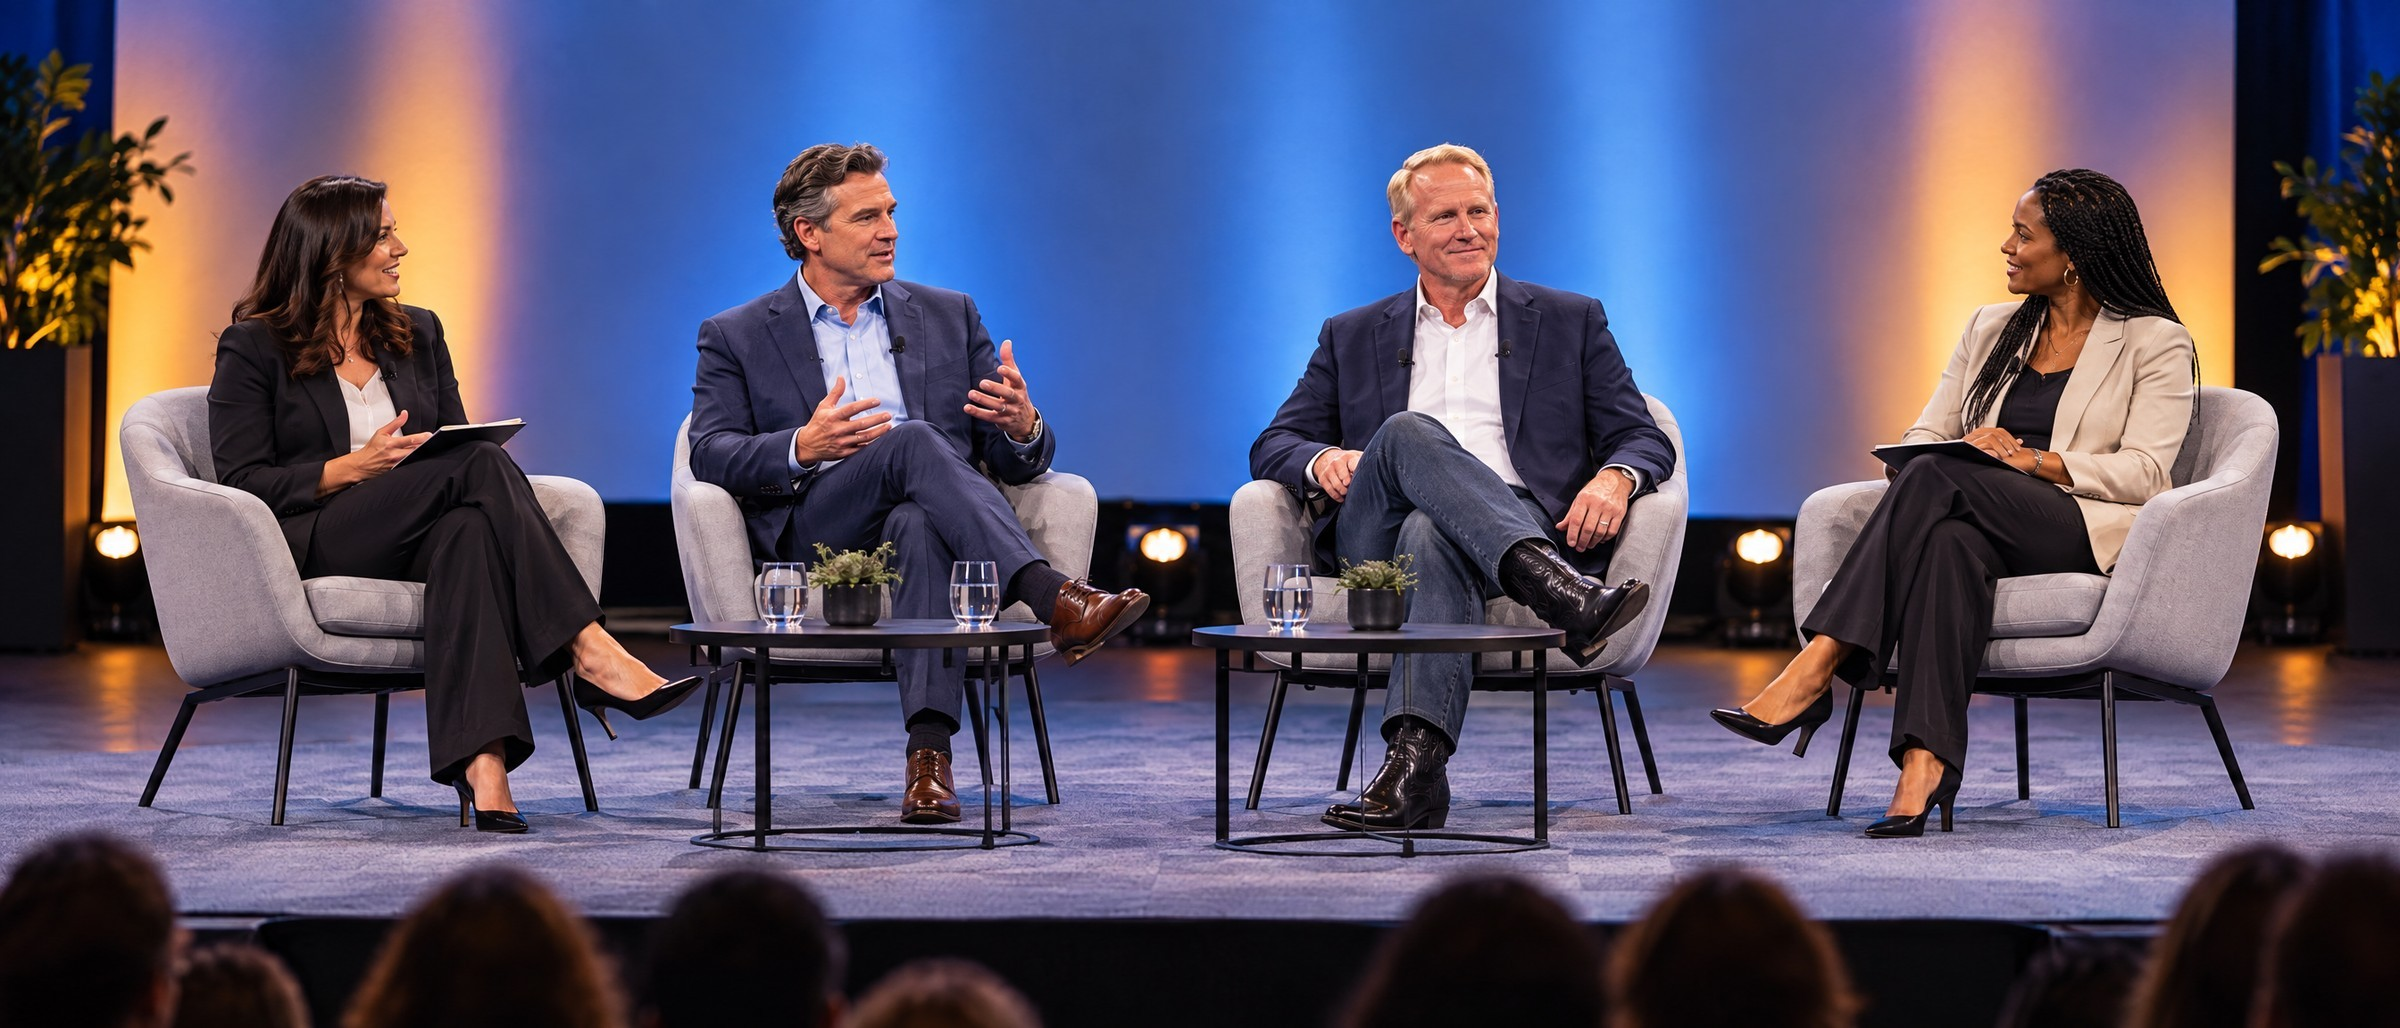
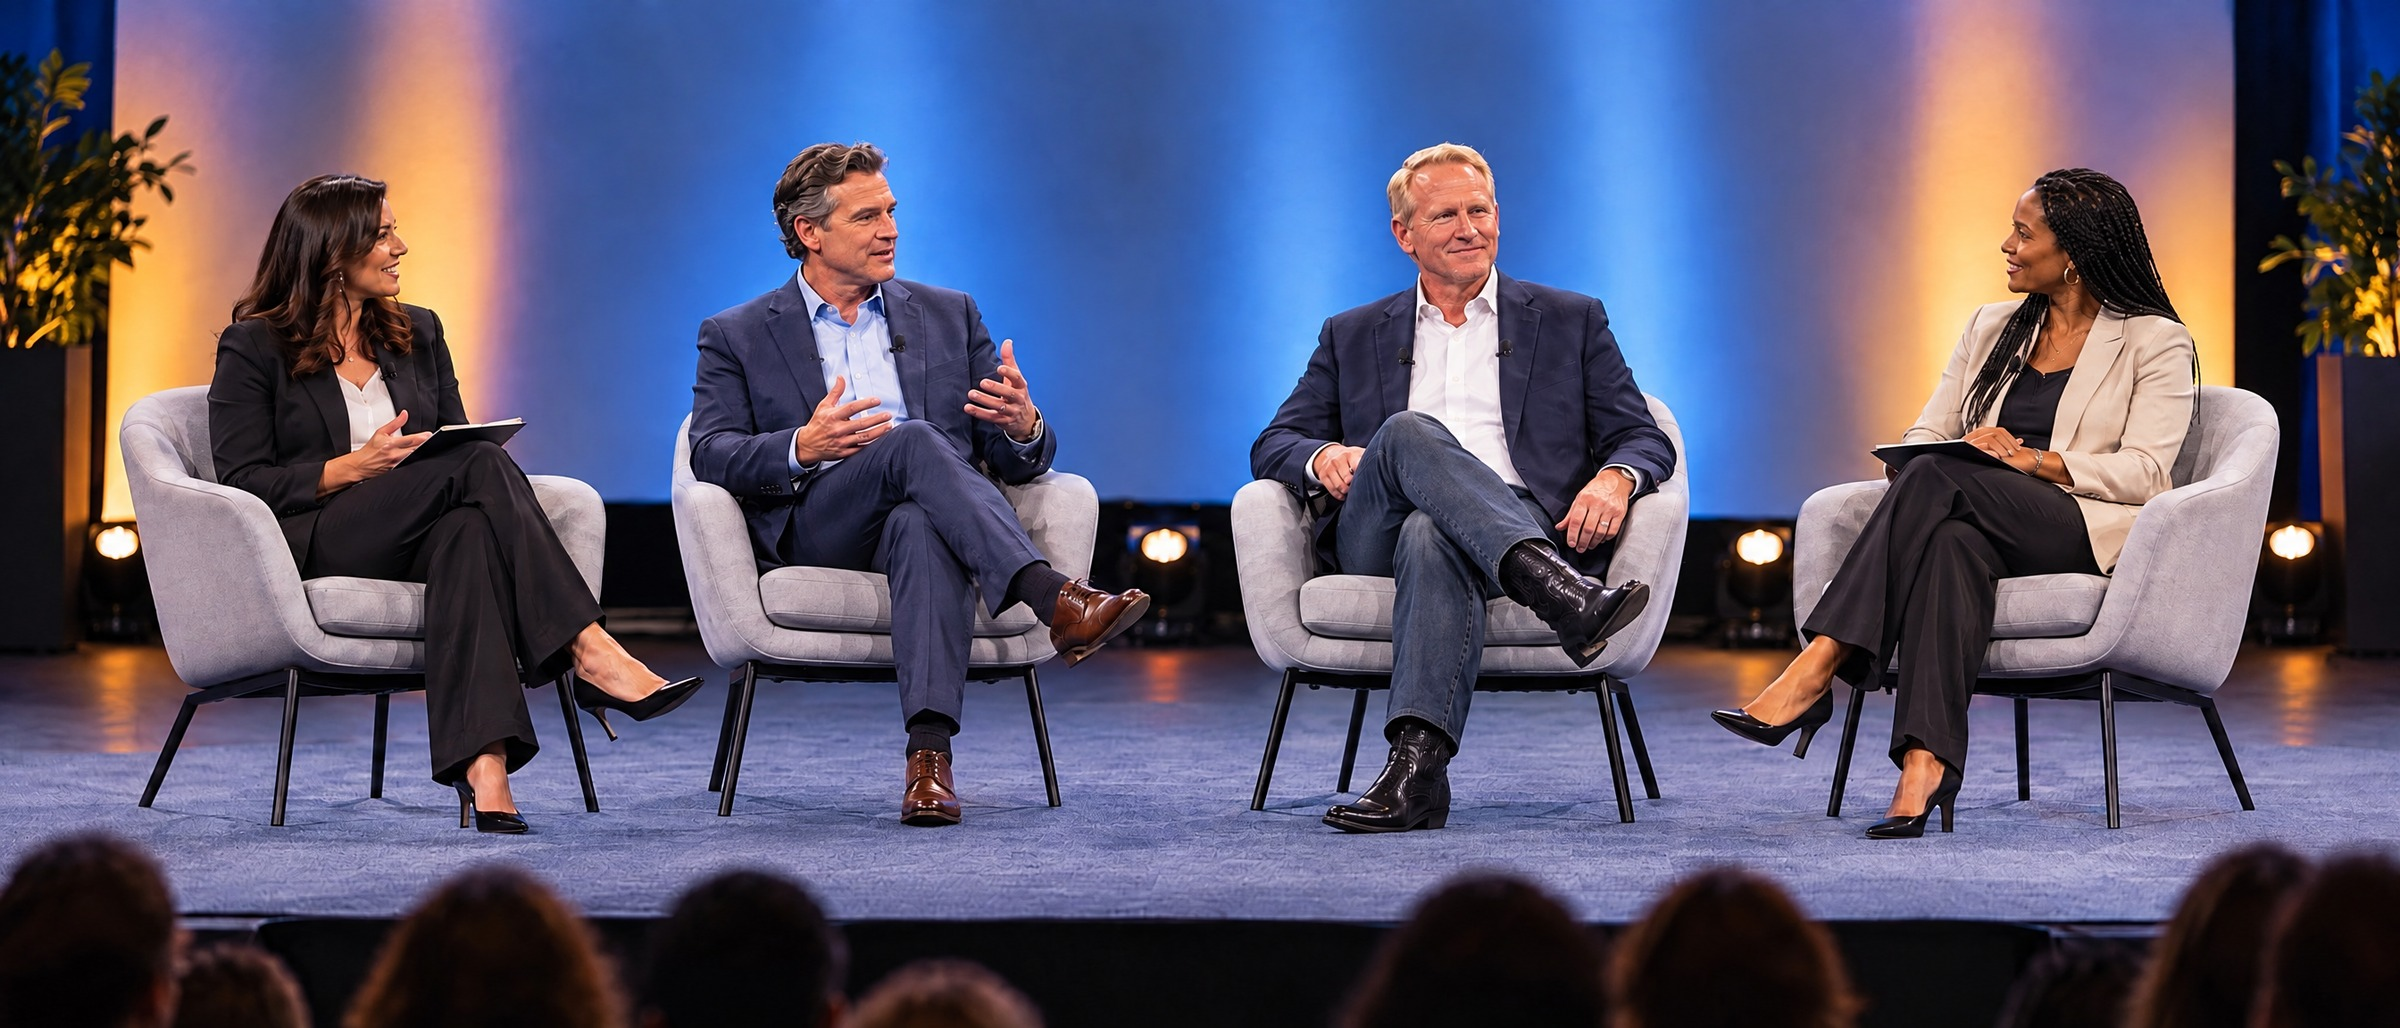
Articles panel: no-tables pass 2 (half-width buffers kept).

diff --git a/articles/index.html b/articles/index.html
@@ -17,7 +17,7 @@
   <link rel="preconnect" href="https://fonts.googleapis.com">
   <link rel="preconnect" href="https://fonts.gstatic.com" crossorigin>
   <link href="https://fonts.googleapis.com/css2?family=Inter:wght@400;500;600;700;800&display=swap" rel="stylesheet">
-  <link rel="stylesheet" href="../css/style.css?v=panel4-half-20260922">
+  <link rel="stylesheet" href="../css/style.css?v=panel4-notable2-20260922">
 </head>
 <body>
 
